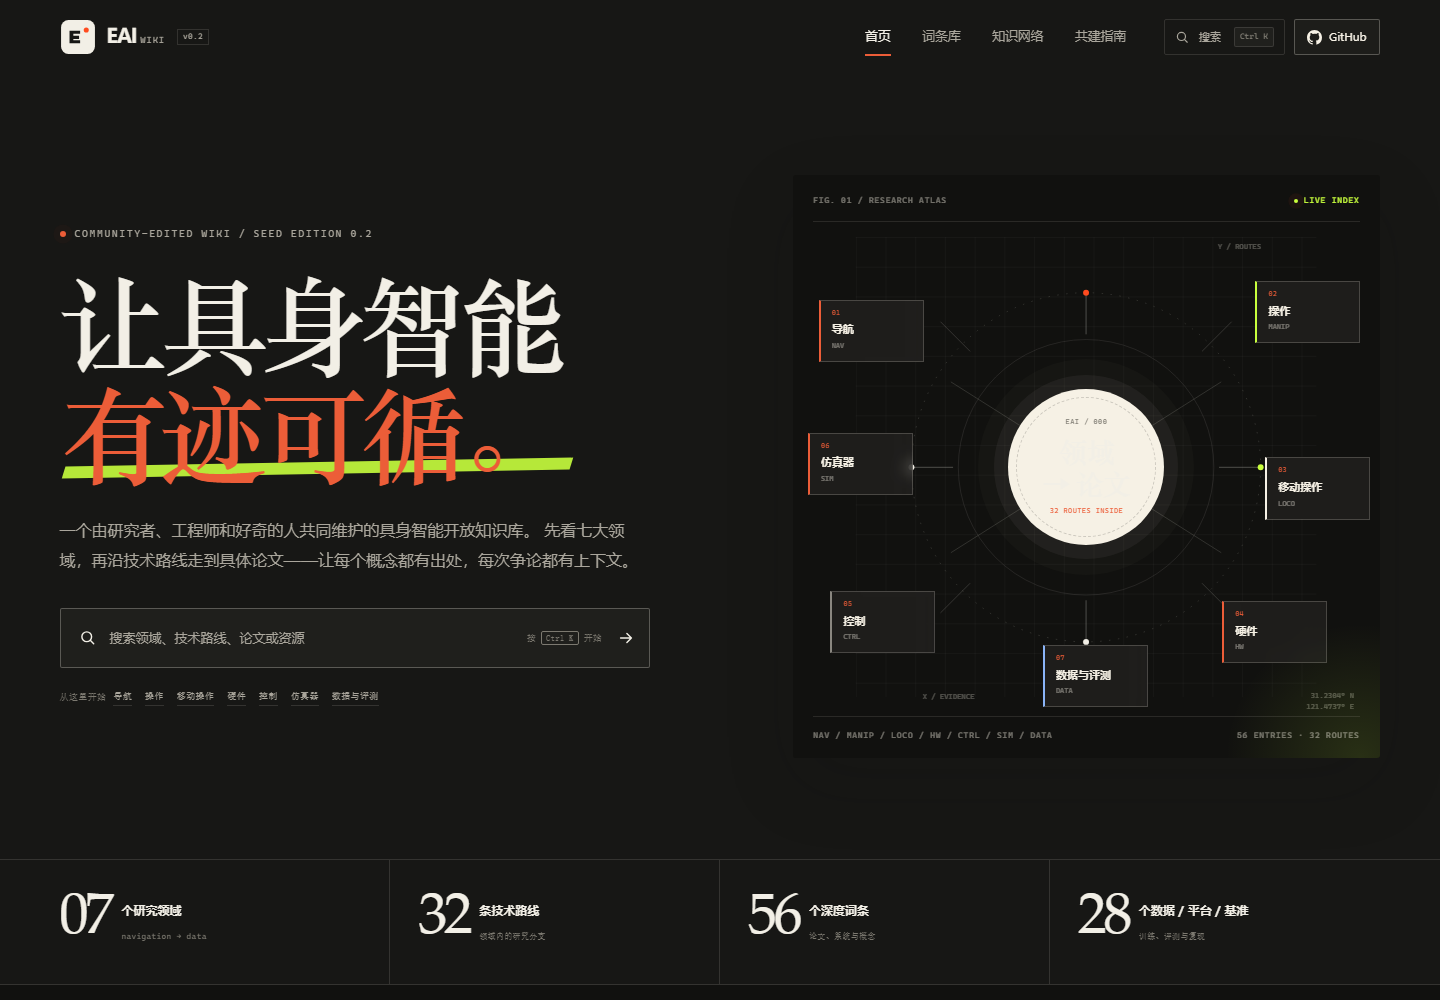
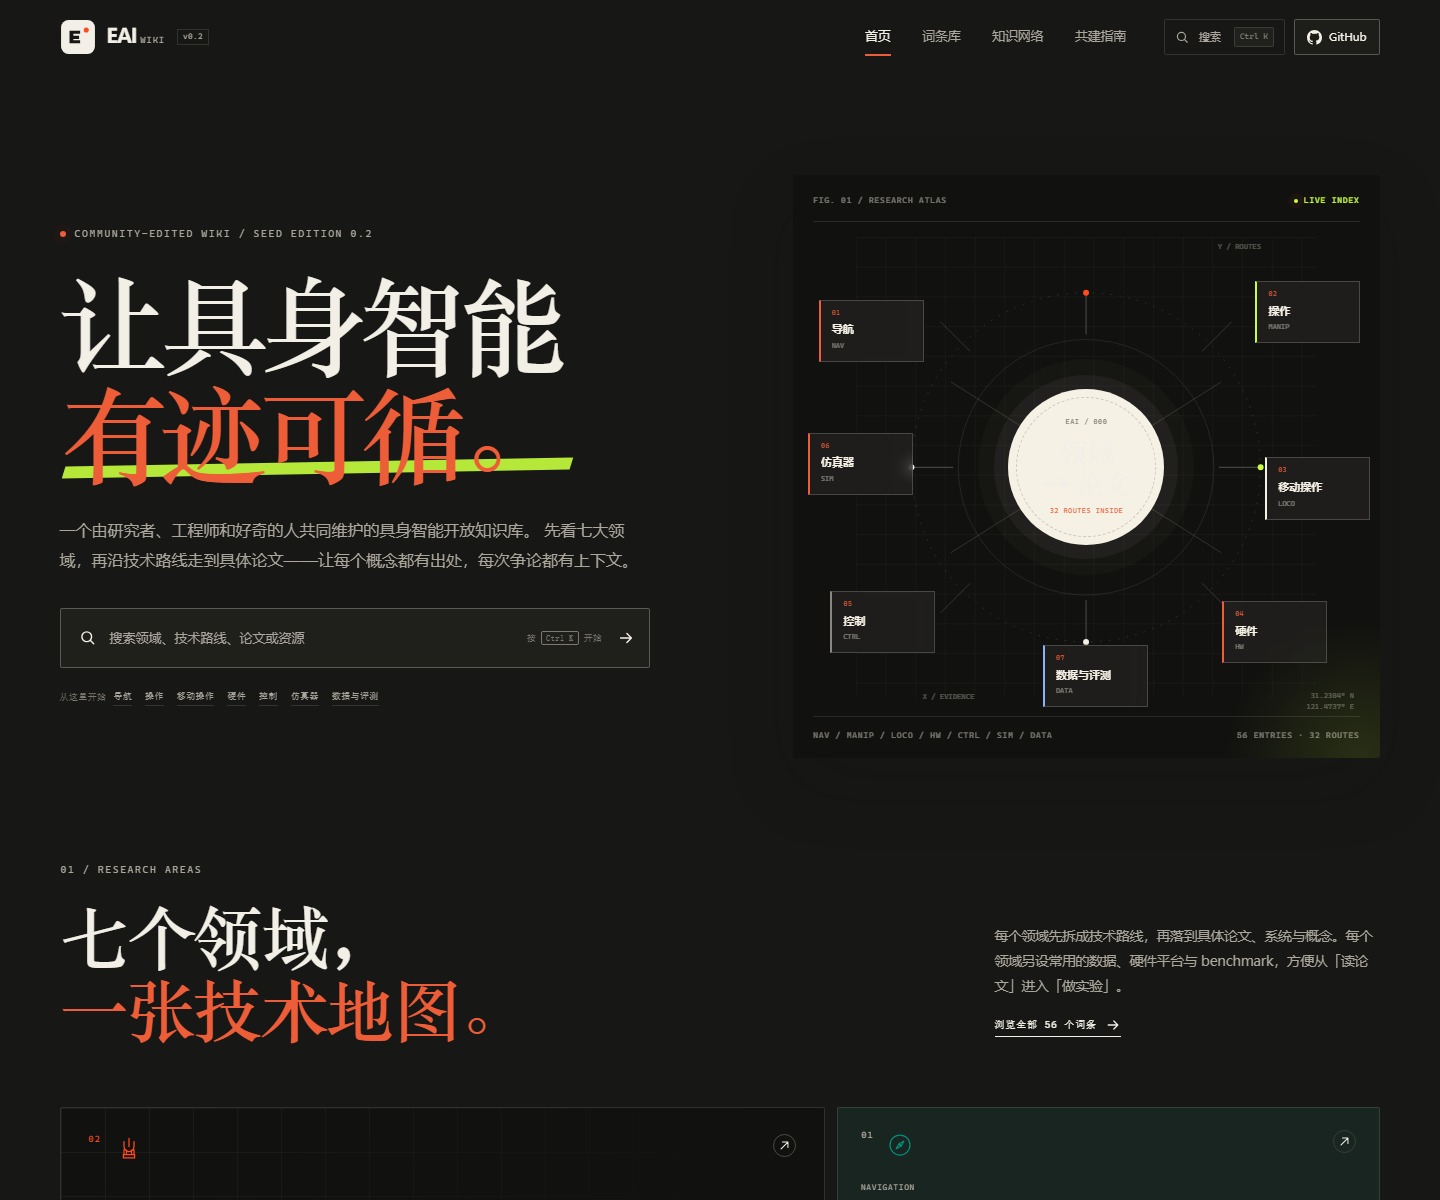
refactor: simplify homepage to domains and contribution CTA

diff --git a/assets/js/app.js b/assets/js/app.js
@@ -330,16 +330,6 @@
   /* ------------------------------------------------------------------- home */
 
   function renderHome() {
-    const domainsCount = padded(DOMAINS.length);
-    const routesCount = padded(TOTAL_ROUTES);
-    const entriesCount = padded(ENTRIES.length);
-    const resourcesCount = padded(RESOURCES.length);
-    const featPrimary = byId("openvla");
-    const featDomain = domainOf(featPrimary);
-    const featRoute = routeOf(featPrimary);
-    const featuredList = ["pi0", "genie-3", "diffusion-policy", "groot-n1"].map(byId).filter(Boolean);
-    const topTags = allTags(8);
-
     return `
     <div class="view view--home">
       <section class="hero wrap">
@@ -370,38 +360,6 @@
         ${heroArt()}
       </section>
 
-      <section class="stat-strip" aria-label="知识库概况">
-        <div class="wrap stat-grid">
-          <div class="stat reveal">
-            <span class="stat-value">${domainsCount}</span>
-            <span class="stat-label">个研究领域</span>
-            <span class="stat-note">navigation → data</span>
-          </div>
-          <div class="stat reveal" style="--delay:50ms">
-            <span class="stat-value">${routesCount}</span>
-            <span class="stat-label">条技术路线</span>
-            <span class="stat-note">领域内的研究分支</span>
-          </div>
-          <div class="stat reveal" style="--delay:100ms">
-            <span class="stat-value">${entriesCount}</span>
-            <span class="stat-label">个深度词条</span>
-            <span class="stat-note">论文、系统与概念</span>
-          </div>
-          <div class="stat reveal" style="--delay:150ms">
-            <span class="stat-value">${resourcesCount}</span>
-            <span class="stat-label">个数据 / 平台 / 基准</span>
-            <span class="stat-note">训练、评测与复现</span>
-          </div>
-        </div>
-      </section>
-
-      <div class="marquee" aria-hidden="true">
-        <div class="marquee-track">
-          ${marqueeItems()}
-          ${marqueeItems()}
-        </div>
-      </div>
-
       <section class="section domains-section wrap" id="domains">
         <div class="section-head">
           <div>
@@ -418,140 +376,6 @@
         </div>
       </section>
 
-      <section class="section featured-section">
-        <div class="wrap">
-          <div class="section-head">
-            <div>
-              <p class="eyebrow">02 / SELECTED ENTRIES</p>
-              <h2 class="section-title">先读这些。<br><em>其余的，顺着引用走。</em></h2>
-            </div>
-            <div class="section-aside">
-              <p>不是排行榜，而是一条有判断的入口。每篇词条都回答四个问题：它是什么、为什么重要、证据在哪、边界是什么。</p>
-              <a class="text-link" href="#/entries">进入词条库 ${smallArrow()}</a>
-            </div>
-          </div>
-
-          <div class="featured-layout">
-            <a class="spotlight reveal" href="#/entry/${featPrimary.id}" style="--accent:${featDomain.accent}">
-              <div class="spotlight-top">
-                <span class="spotlight-kicker">SPOTLIGHT / ${padded(featPrimary.year)}</span>
-                <span class="spotlight-type">${typeLabel(featPrimary.type)}</span>
-              </div>
-              <div class="spotlight-main">
-                <div class="spotlight-copy">
-                  <p class="spotlight-domain">${featDomain.num} / ${esc(featDomain.en)} · ${esc(featRoute.name)}</p>
-                  <h3>${esc(featPrimary.title)}</h3>
-                  <p class="spotlight-sub">${esc(featPrimary.subtitle)}</p>
-                  <p class="spotlight-tldr">${esc(featPrimary.tldr)}</p>
-                </div>
-                <div class="spotlight-figure" aria-hidden="true">
-                  <span class="figure-orbit figure-orbit--one"></span>
-                  <span class="figure-orbit figure-orbit--two"></span>
-                  <span class="figure-metric">7<span>B</span></span>
-                  <span class="figure-caption">OPEN<br>WEIGHTS</span>
-                  <span class="figure-cross">+</span>
-                </div>
-              </div>
-              <div class="spotlight-foot">
-                <span>${esc(featPrimary.venue)}</span>
-                <span class="spotlight-cta">阅读词条 <i>${arrowIcon()}</i></span>
-              </div>
-            </a>
-
-            <div class="featured-list reveal" style="--delay:80ms">
-              <div class="featured-list-head">
-                <span>ALSO WORTH YOUR TIME</span>
-                <span>04 ENTRIES</span>
-              </div>
-              ${featuredList.map((entry, index) => {
-                const domain = domainOf(entry);
-                return `
-                <a class="featured-row" href="#/entry/${entry.id}" style="--accent:${domain.accent}">
-                  <span class="fr-index">${padded(index + 2)}</span>
-                  <span class="fr-copy">
-                    <span class="fr-meta">${esc(domain.short)} / ${esc(routeOf(entry).name)} · ${typeLabel(entry.type)}</span>
-                    <strong>${esc(entry.title)}</strong>
-                    <span class="fr-sub">${esc(entry.subtitle)}</span>
-                  </span>
-                  <span class="fr-year">${entry.year}</span>
-                  <span class="fr-arrow">${arrowIcon()}</span>
-                </a>`;
-              }).join("")}
-              <a class="featured-more" href="#/entries">
-                <span>还有 ${ENTRIES.length - featuredList.length - 1} 个词条</span>
-                <span>查看全部 ${smallArrow()}</span>
-              </a>
-            </div>
-          </div>
-        </div>
-      </section>
-
-      <section class="section paths-section">
-        <div class="wrap">
-          <div class="section-head section-head--light">
-            <div>
-              <p class="eyebrow eyebrow--light">03 / GUIDED PATHS</p>
-              <h2 class="section-title">别从信息流开始。<br><em>从一条路径开始。</em></h2>
-            </div>
-            <div class="section-aside">
-              <p>三条为不同目标设计的阅读路线。每条路线都有先后顺序，也都可以随时岔开去读你感兴趣的引用。</p>
-              <a class="text-link text-link--light" href="#/graph">看看它们如何相连 ${smallArrow()}</a>
-            </div>
-          </div>
-          <div class="paths-grid">
-            ${PATHS.map(pathCard).join("")}
-          </div>
-        </div>
-      </section>
-
-      <section class="section home-graph-section wrap">
-        <div class="home-graph-copy">
-          <p class="eyebrow">04 / CONNECTIONS</p>
-          <h2 class="section-title">领域不是抽屉。<br><em>路线也不是。</em></h2>
-          <p>导航会借操作的语义规划，移动操作依赖硬件、控制、仿真与数据，评测又反过来定义什么叫「通用」。知识网络从七个领域展开，再带你进入领域内部的技术路线。</p>
-          <div class="home-graph-stats">
-            <div><strong>${DOMAINS.length}</strong><span>领域节点</span></div>
-            <div><strong>${TOTAL_ROUTES}</strong><span>技术路线</span></div>
-            <div><strong>${RESOURCES.length}</strong><span>数据 / 基准</span></div>
-          </div>
-          <a class="button button--dark" href="#/graph">进入知识网络 <span>${smallArrow()}</span></a>
-        </div>
-        <div class="home-graph-visual">
-          ${miniGraphMarkup()}
-          <div class="mini-caption">
-            <span>FIG. 02 — DOMAIN ADJACENCY</span>
-            <span>点击进入完整图谱 ↗</span>
-          </div>
-        </div>
-      </section>
-
-      <section class="editorial-band">
-        <div class="wrap editorial-band-inner">
-          <div class="editorial-label">
-            <span class="eyebrow eyebrow--light">OUR EDITORIAL BAR</span>
-            <span class="editorial-mark">✳</span>
-          </div>
-          <blockquote>“每条词条都要回答三件事：<br>它解决什么问题？证据是什么？<em>哪里还不可靠？</em>”</blockquote>
-          <div class="editorial-meta">
-            <span>AI 辅助起草 · 社区审校中</span>
-            <a href="#/contribute">阅读编辑原则 ${smallArrow()}</a>
-          </div>
-        </div>
-      </section>
-
-      <section class="section home-tags-section wrap">
-        <div class="section-head section-head--compact">
-          <div>
-            <p class="eyebrow">05 / BY TOPIC</p>
-            <h2 class="section-title section-title--small">按主题漫游</h2>
-          </div>
-          <p class="section-aside section-aside--inline">不按领域，按你此刻好奇的东西。</p>
-        </div>
-        <div class="tag-cloud">
-          ${topTags.map((tag, index) => `<a href="#/entries" data-tag-jump="${esc(tag)}" style="--tag-delay:${index * 25}ms">${esc(tag)}<span>↗</span></a>`).join("")}
-          <a class="tag-cloud-more" href="#/entries">全部索引 ${smallArrow()}</a>
-        </div>
-      </section>
     </div>`;
   }
 

diff --git a/assets/css/styles.css b/assets/css/styles.css
@@ -1051,6 +1051,8 @@ strong { font-weight: 650; }
 /* domain atlas card grid */
 
 .domains-section { padding-bottom: clamp(80px, 10vw, 150px); }
+.view--home .hero { padding-bottom: clamp(36px, 4vw, 58px); }
+.view--home .domains-section { padding-top: clamp(24px, 3.5vw, 46px); }
 .domain-grid {
   display: grid;
   grid-template-columns: repeat(12, minmax(0, 1fr));

diff --git a/README.md b/README.md
@@ -6,7 +6,6 @@
 - **32 条技术路线**：如操作领域下的模仿学习、强化学习、VLA、WAM、代码即策略、具身智能体 Harness
 - **56 个深度词条**：论文 / 系统 / 概念 / 数据集 / 基准
 - **28 个常用数据集、硬件平台与基准**：按领域交叉收录，可直接跳转站内词条或原始项目页
-- **3 条阅读路径**：从导航、操作或 Sim2Real 进入
 - **公开讨论**：Giscus + GitHub Discussions
 - **维基式详情页**：条目 / 讨论 / 编辑 / 历史标签、左侧目录、信息框、带 [编辑] 的章节、参考来源与页面分类
 - **Wiki 编辑提案**：顶部「编辑」标签与章节「[编辑]」都会生成公开 GitHub Issue
@@ -15,7 +14,7 @@
 
 ![EAI Wiki homepage](docs/preview.png)
 
-首页现在按七个领域组织：导航、操作、移动操作、硬件、控制、仿真器、数据与评测。硬件领域继续按灵巧手、机械臂、人形机器人、轮式机器人、传感器与执行器拆分。
+首页只保留 hero、七个领域卡片与底部贡献 CTA，不再堆叠精选、阅读路径、知识网络和主题云。七个领域是导航、操作、移动操作、硬件、控制、仿真器、数据与评测；硬件领域继续按灵巧手、机械臂、人形机器人、轮式机器人、传感器与执行器拆分。
 
 ![Seven research areas](docs/preview-domains.png)
 
@@ -180,7 +179,6 @@ comments: {
 | `DOMAIN_DETAILS` | 每个领域的开放问题与阅读提示 |
 | `ENTRIES` | 词条，使用 `domain` + `route` 两级归属 |
 | `RESOURCES` | 每个领域的数据集、benchmark 与硬件平台，可引用站内词条 |
-| `PATHS` | 首页三条阅读路径 |
 | `TYPE_LABELS` | 词条类型的中文显示 |
 
 ### 领域 → 路线
